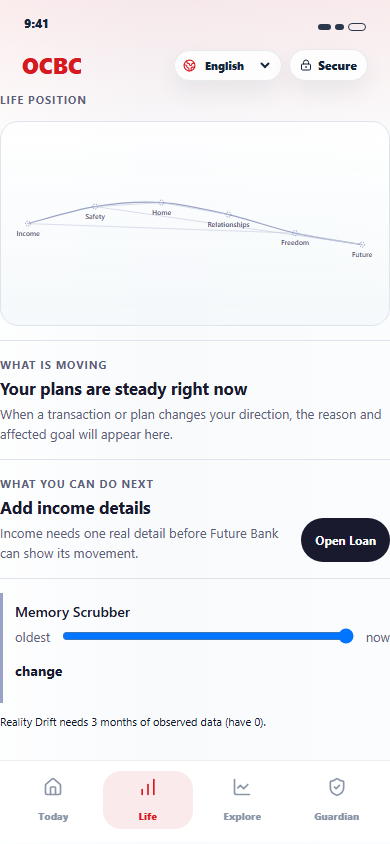
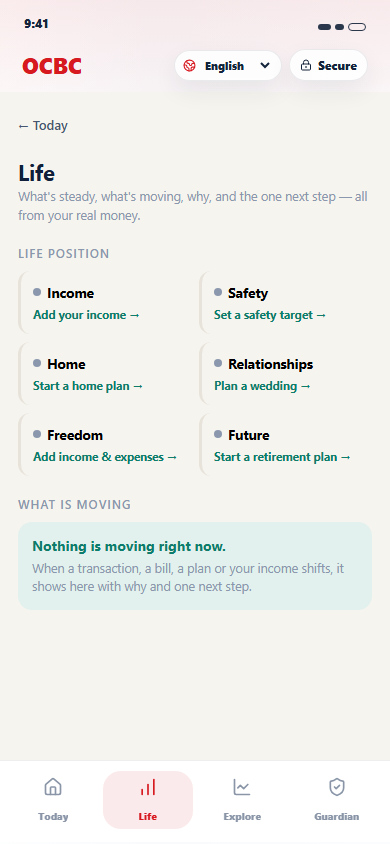
feat(phase 3): the Life tab is the visible spine (LifeView)
Replaced the stacked RippleStrip + livingThreadEntrance + RealityDrift +
LifeGraph mess on the Life tab with one clean page
(app/components/future-bank/LifeView.jsx), reading the ONE Life Thread
(+ Money Moments / plan movement / ledger) from FutureBankDataProvider:

  1 Life position     - six life nodes, human labels (Income / Safety /
                        Home / Relationships / Freedom / Future); an unknown
                        node shows a concrete missing action ("Add your
                        income ->"), and every node opens the right Studio
  2 What is moving     - the single most meaningful real change now, with a
                        Preview / Committed tag, or a calm state
  3 Why it moved        - one plain reason + the real source (money-rescue
                        detector / transaction ledger / plan projection /
                        change ledger) + "updated Xh ago"
  4 What you can do next - one primary CTA into the right place
  5 History             - only rendered when real ledger events exist

No snapshot ids, no `known (` / `unknown (`, no metric keys, no i18n keys,
no duplicate navigation. Reality Drift reaches the user here via Money
Moments (driftToMoment), not a standalone panel.

npm test 429/429, shell-onboarding-life + rc-ui-and-security + living-thread-surface 23/23, eslint clean, next build green. Life tab smoke passes at 390px, no overflow, no debug text.

Claude-Session: https://claude.ai/code/session_01WoyfsaXAy942YDrPqLGGjF

diff --git a/app/components/future-bank/LifeView.jsx b/app/components/future-bank/LifeView.jsx
@@ -1,0 +1,209 @@
+"use client";
+
+// The Life tab — the visible spine. Reads the ONE server-owned Life Thread
+// (+ Money Moments, plan movement, ledger) from FutureBankDataProvider.
+// No second front-end model, no snapshot ids, no metric keys, no debug text.
+//
+//   1 Life position     - the six life nodes, human labels, unknown -> a
+//                         concrete missing action
+//   2 What is moving     - the single most meaningful real change now
+//   3 Why it moved        - one plain reason + real source + updated time
+//   4 What you can do next - one primary CTA into the right place
+//   5 History             - only when real history exists
+
+import css from "../../showcase/fb.module.css";
+import { FutureBankDataProvider, useFutureBankData } from "./FutureBankDataProvider.jsx";
+import { money, humanMetric, relTime, afterLabel, isMaterial } from "./format.js";
+
+// life node -> human label + the Studio (or add-reality) it opens, and the
+// exact missing action when the node is unknown.
+const NODES = {
+  income: { label: "Income", domain: null, add: "Add your income", why: "so Future Bank can see what arrives each month" },
+  safety: { label: "Safety", domain: "emergency", add: "Set a safety target", why: "so it knows your emergency floor", unit: "months" },
+  home: { label: "Home", domain: "home", add: "Start a home plan", why: "to see when a home is reachable" },
+  relationships: { label: "Relationships", domain: "wedding", add: "Plan a wedding", why: "to weigh a wedding against your other goals" },
+  freedom: { label: "Freedom", domain: "investment", add: "Add income & expenses", why: "to see your free monthly cashflow" },
+  future: { label: "Future", domain: "retirement", add: "Start a retirement plan", why: "to project the long term" },
+};
+const STATE_TEXT = { calm: "steady", moving: "moving", waiting_decision: "needs a decision", unknown: "not set up" };
+
+export function LifeView(props) {
+  return (
+    <FutureBankDataProvider enabled>
+      <Inner {...props} />
+    </FutureBankDataProvider>
+  );
+}
+
+function Inner({ onBack, onStudio, onAddReality, onHistory, onRoute }) {
+  const fb = useFutureBankData();
+  const lt = fb.lifeThread ?? {};
+  const nodes = lt.lifeNodes ?? [];
+  const moments = fb.moments ?? [];
+  const plans = fb.planMovement ?? [];
+  const ledger = fb.ledger?.events ?? [];
+
+  if (fb.status === "loading" && !fb.lifeThread) {
+    return <Shell onBack={onBack}><p className={css.lede}>Reading your life thread…</p></Shell>;
+  }
+
+  // 2. What is moving: the top material plan movement, else the top moment
+  // that carries an affected plan.
+  const movingPlan = plans.find((p) => (p.affected ?? []).some(isMaterial)) ?? null;
+  const movingRow = movingPlan ? movingPlan.affected.filter(isMaterial)[0] : null;
+  const movingMoment =
+    moments.find((m) => m.affectedPlans?.some((a) => a.direction && a.direction !== "flat")) ??
+    moments.find((m) => m.sourceType === "reality_drift" || m.sourceType === "plan_impact") ??
+    moments[0] ??
+    null;
+
+  let moving = null;
+  if (movingPlan && movingRow) {
+    const al = afterLabel(movingRow);
+    moving = {
+      title: `${cap(movingPlan.domain)} · ${humanMetric(movingRow.metric)}`,
+      change: `${movingRow.before != null ? `${fmt(movingRow.before, movingRow.unit)} → ` : ""}${al.value === "Needs more information" ? al.value : fmt(al.value, movingRow.unit)}`,
+      tag: al.tag ?? (movingPlan.state === "committed" ? "Committed" : "Preview"),
+      why: `Because your ${movingPlan.domain} plan changed.`,
+      source: movingPlan.lastChange ? "Change Ledger" : "Life Thread projection",
+      updated: movingPlan.lastUpdatedAt ?? lt.generatedAt,
+      cta: { label: `Review the ${movingPlan.domain} plan`, run: () => onStudio?.(movingPlan.domain) },
+    };
+  } else if (movingMoment) {
+    const a = movingMoment.affectedPlans?.find((x) => x.direction && x.direction !== "flat");
+    moving = {
+      title: movingMoment.title,
+      change: a
+        ? `${a.before != null ? `${fmt(a.before, a.unit)} → ` : ""}${a.confirmedAfter ?? a.possibleAfter ?? "Needs more information"}`
+        : null,
+      tag: a?.confirmedAfter != null ? "Committed" : a ? "Preview" : null,
+      why: movingMoment.whyNow || movingMoment.summary,
+      source: movingMoment.evidence?.[0]?.source ? sourceLabel(movingMoment.evidence[0].source) : "Future Bank detection",
+      updated: movingMoment.occurredAt,
+      cta: movingMoment.nextActions?.[0]
+        ? { label: movingMoment.nextActions[0].label, run: () => onRoute?.(movingMoment.nextActions[0].route) }
+        : { label: "Open Guardian", run: () => onRoute?.("guardian") },
+    };
+  }
+
+  return (
+    <Shell onBack={onBack}>
+      <div>
+        <h1 className={css.title}>Life</h1>
+        <p className={css.micro}>What's steady, what's moving, why, and the one next step — all from your real money.</p>
+      </div>
+
+      {/* 1. LIFE POSITION */}
+      <section className={css.section}>
+        <p className={css.kicker}>Life position</p>
+        <div className={css.lifeGrid}>
+          {nodes.map((n) => {
+            const meta = NODES[n.id] ?? { label: cap(n.id) };
+            const st = n.state ?? (n.known ? "calm" : "unknown");
+            const valueText =
+              st === "unknown"
+                ? null
+                : n.value == null
+                  ? "set"
+                  : n.id === "safety"
+                    ? `${round1(n.value)} mo`
+                    : money(n.value);
+            return (
+              <button
+                key={n.id}
+                type="button"
+                className={`${css.lifeNode} ${css["life_" + st] || ""}`}
+                onClick={() => (st === "unknown" ? (meta.domain ? onStudio?.(meta.domain) : onAddReality?.()) : meta.domain ? onStudio?.(meta.domain) : onAddReality?.())}
+              >
+                <span className={css.lifeNodeTop}>
+                  <span className={css.lifeDot} />
+                  <b>{meta.label}</b>
+                </span>
+                {st === "unknown" ? (
+                  <span className={css.lifeNodeAction}>{meta.add} →</span>
+                ) : (
+                  <span className={css.lifeNodeVal}>{valueText} · {STATE_TEXT[st]}</span>
+                )}
+              </button>
+            );
+          })}
+        </div>
+      </section>
+
+      {/* 2 + 3 + 4. WHAT IS MOVING / WHY / NEXT */}
+      <section className={css.section}>
+        <p className={css.kicker}>What is moving</p>
+        {!moving ? (
+          <div className={css.calmCard}>
+            <b>Nothing is moving right now.</b>
+            <span className={css.micro}>When a transaction, a bill, a plan or your income shifts, it shows here with why and one next step.</span>
+          </div>
+        ) : (
+          <div className={css.movingCard}>
+            <div className={css.movingHead}>
+              <b>{moving.title}</b>
+              {moving.tag ? <span className={moving.tag === "Committed" ? css.committedPill : css.previewPill}>{moving.tag}</span> : null}
+            </div>
+            {moving.change ? <div className={css.movingChange}>{moving.change}</div> : null}
+            <div className={css.micro}>Why: {moving.why}</div>
+            <div className={css.micro}>Source: {moving.source} · updated {relTime(moving.updated)}</div>
+            <button type="button" className={`${css.cta} ${css.ctaSea}`} style={{ marginTop: 6 }} onClick={moving.cta.run}>
+              {moving.cta.label}
+            </button>
+          </div>
+        )}
+      </section>
+
+      {/* 5. HISTORY — only when real */}
+      {ledger.length > 0 && (
+        <section className={css.section}>
+          <p className={css.kicker}>History</p>
+          <div className={css.activity}>
+            {ledger.slice(0, 4).map((e) => (
+              <div key={e.id} className={css.actItem}>
+                <span className={css.actGlyph}>{String(e.action_type || "?")[0].toUpperCase()}</span>
+                <span className={css.actBody}>
+                  <span className={css.actName}>{String(e.message_key || e.action_type || "change").replace(/[._]/g, " ")}</span>
+                  <span className={css.actMeta}>{e.status} · {relTime(e.occurred_at)}</span>
+                </span>
+              </div>
+            ))}
+          </div>
+          <button type="button" className={css.link} onClick={onHistory}>Open full history →</button>
+        </section>
+      )}
+    </Shell>
+  );
+}
+
+function Shell({ children, onBack }) {
+  return (
+    <div className={css.app}>
+      <div className={css.shell}>
+        {onBack ? <button type="button" className={css.backLink} onClick={onBack}>← Today</button> : null}
+        {children}
+      </div>
+    </div>
+  );
+}
+
+const cap = (s) => String(s || "").replace(/_/g, " ").replace(/^\w/, (c) => c.toUpperCase());
+const round1 = (n) => Math.round((Number(n) || 0) * 10) / 10;
+function fmt(v, unit) {
+  if (v == null) return "Needs more information";
+  if (unit === "sgd_per_month" && Number.isFinite(Number(v))) return `SGD ${Math.round(Number(v)).toLocaleString("en-SG")}`;
+  return String(v);
+}
+function sourceLabel(s) {
+  const m = {
+    money_rescue_detector: "money-rescue detector",
+    transaction_ledger: "transaction ledger",
+    reality_drift_detector: "reality-drift detector",
+    studio_impacts: "plan projection",
+    life_thread: "life thread",
+    ripple_events: "current ripple",
+    change_ledger: "change ledger",
+    plan_version: "your plan",
+  };
+  return m[s] ?? String(s).replace(/_/g, " ");
+}

diff --git a/app/page.jsx b/app/page.jsx
@@ -11,10 +11,11 @@ import { LivingThreadEntrance } from "./components/living-thread/LivingThreadEnt
 import { BankDataProvider } from "./components/bank/useBankData.jsx";
 import { BankHome } from "./components/future-bank/BankHome.jsx";
 import { FinancialTwinView } from "./components/future-bank/FinancialTwinView.jsx";
+import { LifeView } from "./components/future-bank/LifeView.jsx";
 import {
-  GuardianConnected, RippleStripConnected, OnboardingGate,
+  GuardianConnected, OnboardingGate,
   RealityEntryConnected, CsvImportConnected, AccountControlConnected,
-  MoneyRescueConnected, RealityDriftConnected,
+  MoneyRescueConnected,
 } from "./components/bank/connected.jsx";
 import { ExploreScreen } from "./features/explore/ExploreScreen.jsx";
 import { HomeHorizon } from "./features/home/HomeHorizon.jsx";
@@ -4745,6 +4746,9 @@ function LifeNodeEvidence({ node, profile, t, setActiveScreen }) {
   );
 }
 
+// Legacy Life Graph screen. The Life tab now renders <LifeView/>; kept for
+// reference / any deep link that still points here.
+// eslint-disable-next-line no-unused-vars
 function LifeGraph({ setActiveScreen, preferences, t }) {
   const [healthAnalysisOpen, setHealthAnalysisOpen] = useState(false);
   const [infoModal, setInfoModal] = useState(null);
@@ -17680,12 +17684,22 @@ export default function App() {
     [screens.MONEY_RESCUE]: <MoneyRescueConnected onOpen={openFromBank} />,
     [screens.HOME_FULL]: <HomeDashboard {...shared} />,
     [screens.LIFE_GRAPH]: (
-      <>
-        <RippleStripConnected onAction={(a) => a === "compare" && setActiveScreen(screens.MIRROR)} />
-        {livingThreadEntrance("life")}
-        <RealityDriftConnected onOpen={openFromBank} />
-        <LifeGraph {...shared} />
-      </>
+      <LifeView
+        onBack={() => setActiveScreen(screens.HOME)}
+        onHistory={() => setActiveScreen(screens.CHANGE_LEDGER)}
+        onAddReality={() => setActiveScreen(screens.REALITY_ENTRY)}
+        onStudio={(d) => { const target = STUDIO_SCREEN_FOR_DOMAIN[d]; setActiveScreen(target ?? screens.REALITY_ENTRY); }}
+        onRoute={(r) => {
+          const s = String(r || "");
+          if (s === "guardian") return setActiveScreen(screens.GUARDIAN);
+          if (s === "history") return setActiveScreen(screens.CHANGE_LEDGER);
+          if (s.startsWith("studio:")) { const t = STUDIO_SCREEN_FOR_DOMAIN[s.slice(7)]; return setActiveScreen(t ?? screens.MIRROR); }
+          if (s === "home") return setActiveScreen(screens.HOME_HORIZON);
+          if (s.startsWith("explore")) return setActiveScreen(screens.MIRROR);
+          if (s.startsWith("today")) return setActiveScreen(screens.HOME);
+          setActiveScreen(screens.GUARDIAN);
+        }}
+      />
     ),
     [screens.RELATIONSHIP_LEDGER]: <RelationshipLedgerScreen {...shared} simulatorActionStates={simulatorActionStates} />,
     [screens.DECISION_VERDICT]: (

diff --git a/app/showcase/fb.module.css b/app/showcase/fb.module.css
@@ -771,6 +771,123 @@
   color: var(--ink-faint);
 }
 
+/* ---- Life tab: position grid + moving card ------------------ */
+.lifeGrid {
+  display: grid;
+  grid-template-columns: 1fr 1fr;
+  gap: 8px;
+}
+.lifeNode {
+  background: var(--surface);
+  border: 0;
+  border-left: 3px solid var(--line);
+  border-radius: 12px;
+  padding: 12px;
+  display: flex;
+  flex-direction: column;
+  gap: 6px;
+  text-align: left;
+  cursor: pointer;
+  min-height: 62px;
+}
+.lifeNode.life_moving {
+  border-left-color: var(--sea);
+}
+.lifeNode.life_waiting_decision {
+  border-left-color: var(--amber);
+}
+.lifeNode.life_unknown {
+  border-left-color: var(--line);
+  background: var(--ground);
+}
+.lifeNodeTop {
+  display: flex;
+  align-items: center;
+  gap: 6px;
+  font-size: 13.5px;
+}
+.lifeDot {
+  width: 8px;
+  height: 8px;
+  border-radius: 50%;
+  background: var(--ink-faint);
+  flex: 0 0 auto;
+}
+.life_moving .lifeDot {
+  background: var(--sea);
+}
+.life_waiting_decision .lifeDot {
+  background: var(--amber);
+}
+.life_calm .lifeDot {
+  background: var(--sea);
+}
+.lifeNodeVal {
+  font-size: 11.5px;
+  color: var(--ink-soft);
+  font-variant-numeric: tabular-nums;
+}
+.lifeNodeAction {
+  font-size: 11.5px;
+  font-weight: 650;
+  color: var(--sea);
+}
+.calmCard {
+  background: var(--sea-soft);
+  border-radius: var(--radius);
+  padding: 14px;
+  display: flex;
+  flex-direction: column;
+  gap: 4px;
+}
+.calmCard b {
+  color: var(--sea);
+  font-size: 14px;
+}
+.movingCard {
+  background: var(--surface);
+  border-radius: var(--radius);
+  border-left: 3px solid var(--sea);
+  padding: 14px;
+  display: flex;
+  flex-direction: column;
+  gap: 6px;
+}
+.movingHead {
+  display: flex;
+  align-items: baseline;
+  justify-content: space-between;
+  gap: 8px;
+}
+.movingHead b {
+  font-size: 15px;
+}
+.movingChange {
+  font-size: 14px;
+  font-weight: 700;
+  font-variant-numeric: tabular-nums;
+}
+.committedPill {
+  font-size: 10px;
+  font-weight: 800;
+  text-transform: uppercase;
+  letter-spacing: 0.04em;
+  color: var(--sea);
+  background: var(--sea-soft);
+  padding: 2px 7px;
+  border-radius: 999px;
+}
+.previewPill {
+  font-size: 10px;
+  font-weight: 800;
+  text-transform: uppercase;
+  letter-spacing: 0.04em;
+  color: var(--amber);
+  background: var(--amber-soft);
+  padding: 2px 7px;
+  border-radius: 999px;
+}
+
 /* ---- Today / Explore sections ------------------------------- */
 .section {
   display: flex;
